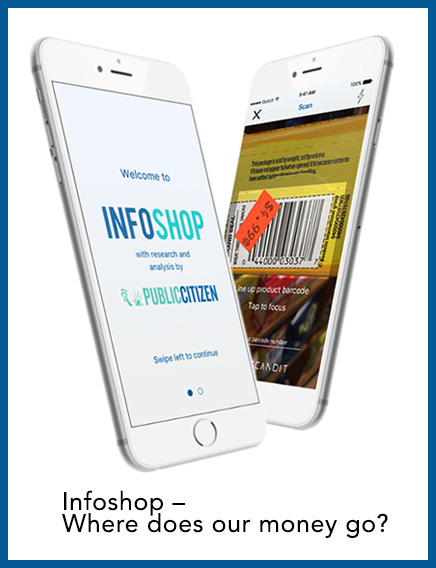
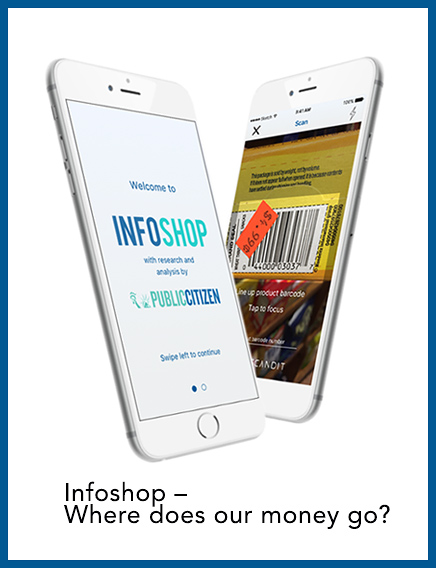
new Infoshop mockups images and cover image edit

Changed region(s): [[0.0596, 0.0599, 0.9243, 0.9577], [0.3578, 0.5986, 0.5069, 0.6585]]

diff --git a/projects/infoshop.html b/projects/infoshop.html
@@ -191,7 +191,7 @@
           </br>
           <div id="infoprofile">
             <div class="leftfloat">
-              <img src="../images/company_profile copy.jpg" />
+              <img src="../images/infoshop_profile.jpg" />
             </div>
             <div id="infoprofiletext">
               <p class="textbox">

diff --git a/projects/mobile-infoshop.html b/projects/mobile-infoshop.html
@@ -189,7 +189,7 @@
         </br>
         <div id="infoprofile">
           <div class="leftfloat">
-            <img src="../images/company_profile copy.jpg" />
+            <img src="../images/infoshop_profile.jpg" />
           </div>
           <div id="infoprofiletext">
             <p class="textbox">

diff --git a/mobile.css b/mobile.css
@@ -404,7 +404,7 @@ a:visited, a:link {
 }
 
 .IS2_picdiv {
-  background-image: url("images/infoshop_screens2.png");
+  background-image: url("images/infoshop_screens3.jpg");
 }
 
 #midfi1_section, #midfi2_section {

diff --git a/style.css b/style.css
@@ -567,7 +567,7 @@ a:visited, a:link {
 }
 
 .IS2_picdiv {
-  background-image: url("images/infoshop_screens2.png");
+  background-image: url("images/infoshop_screens3.jpg");
 }
 
 #midfi1_section, #midfi2_section {
